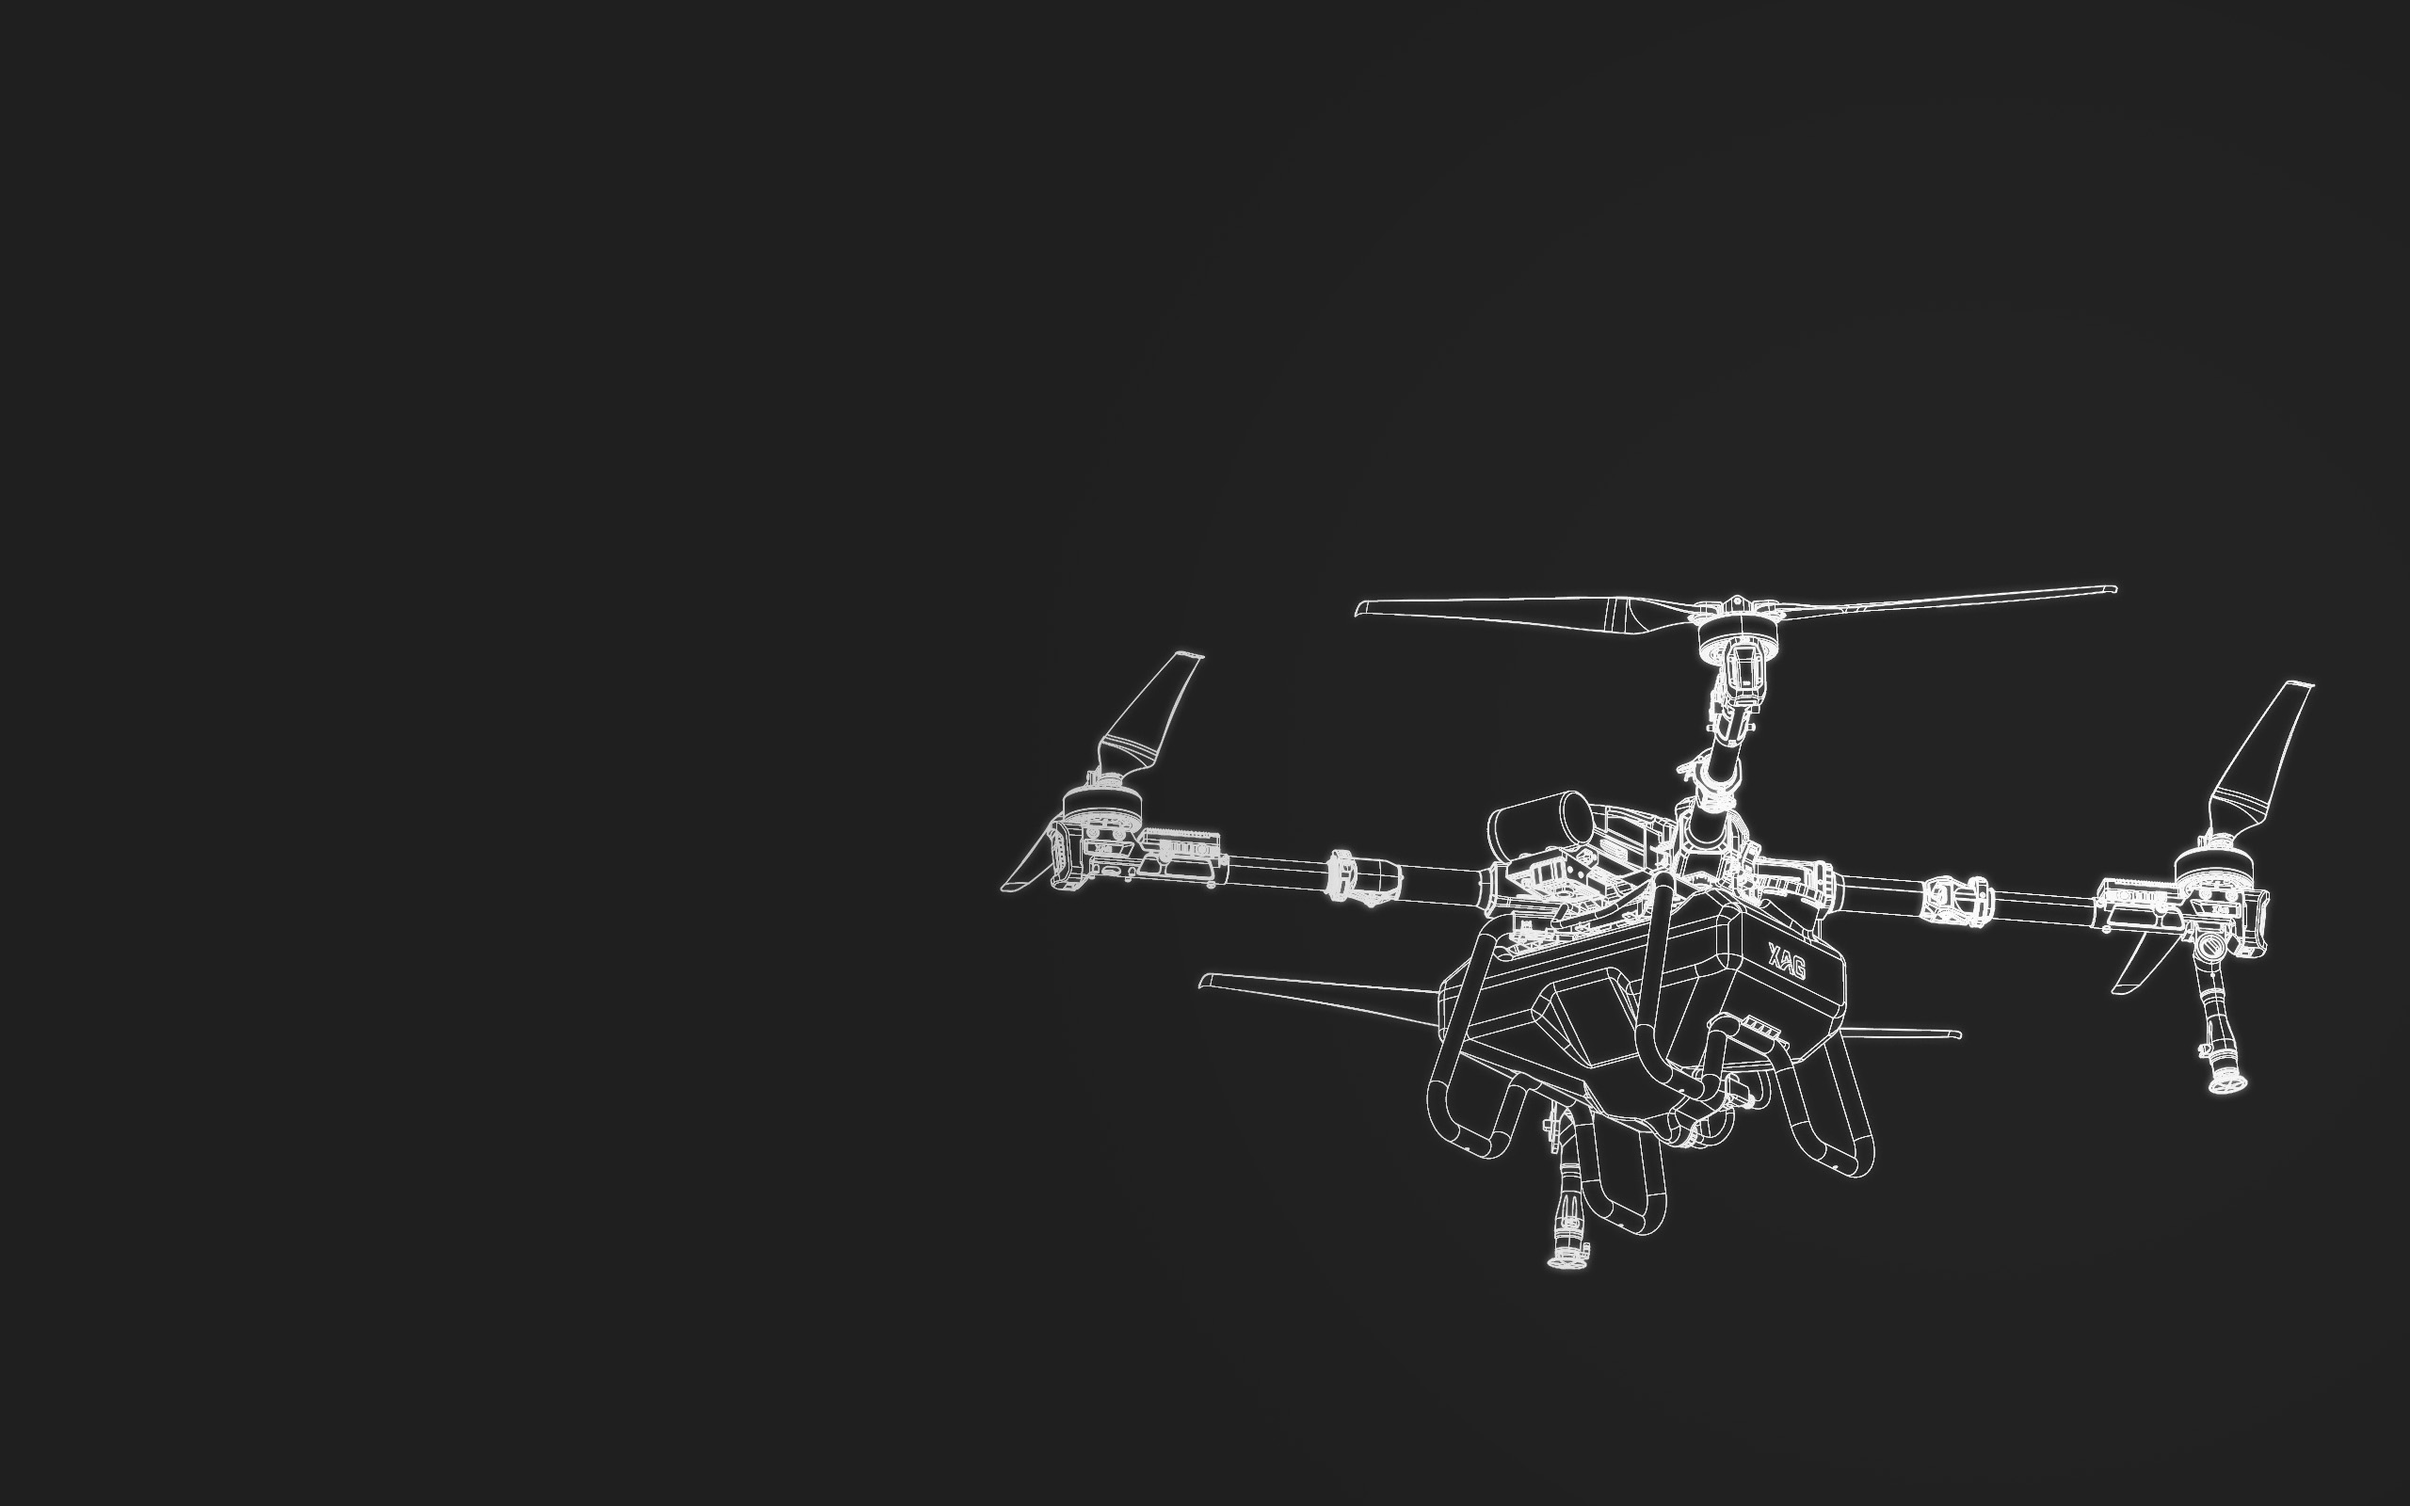
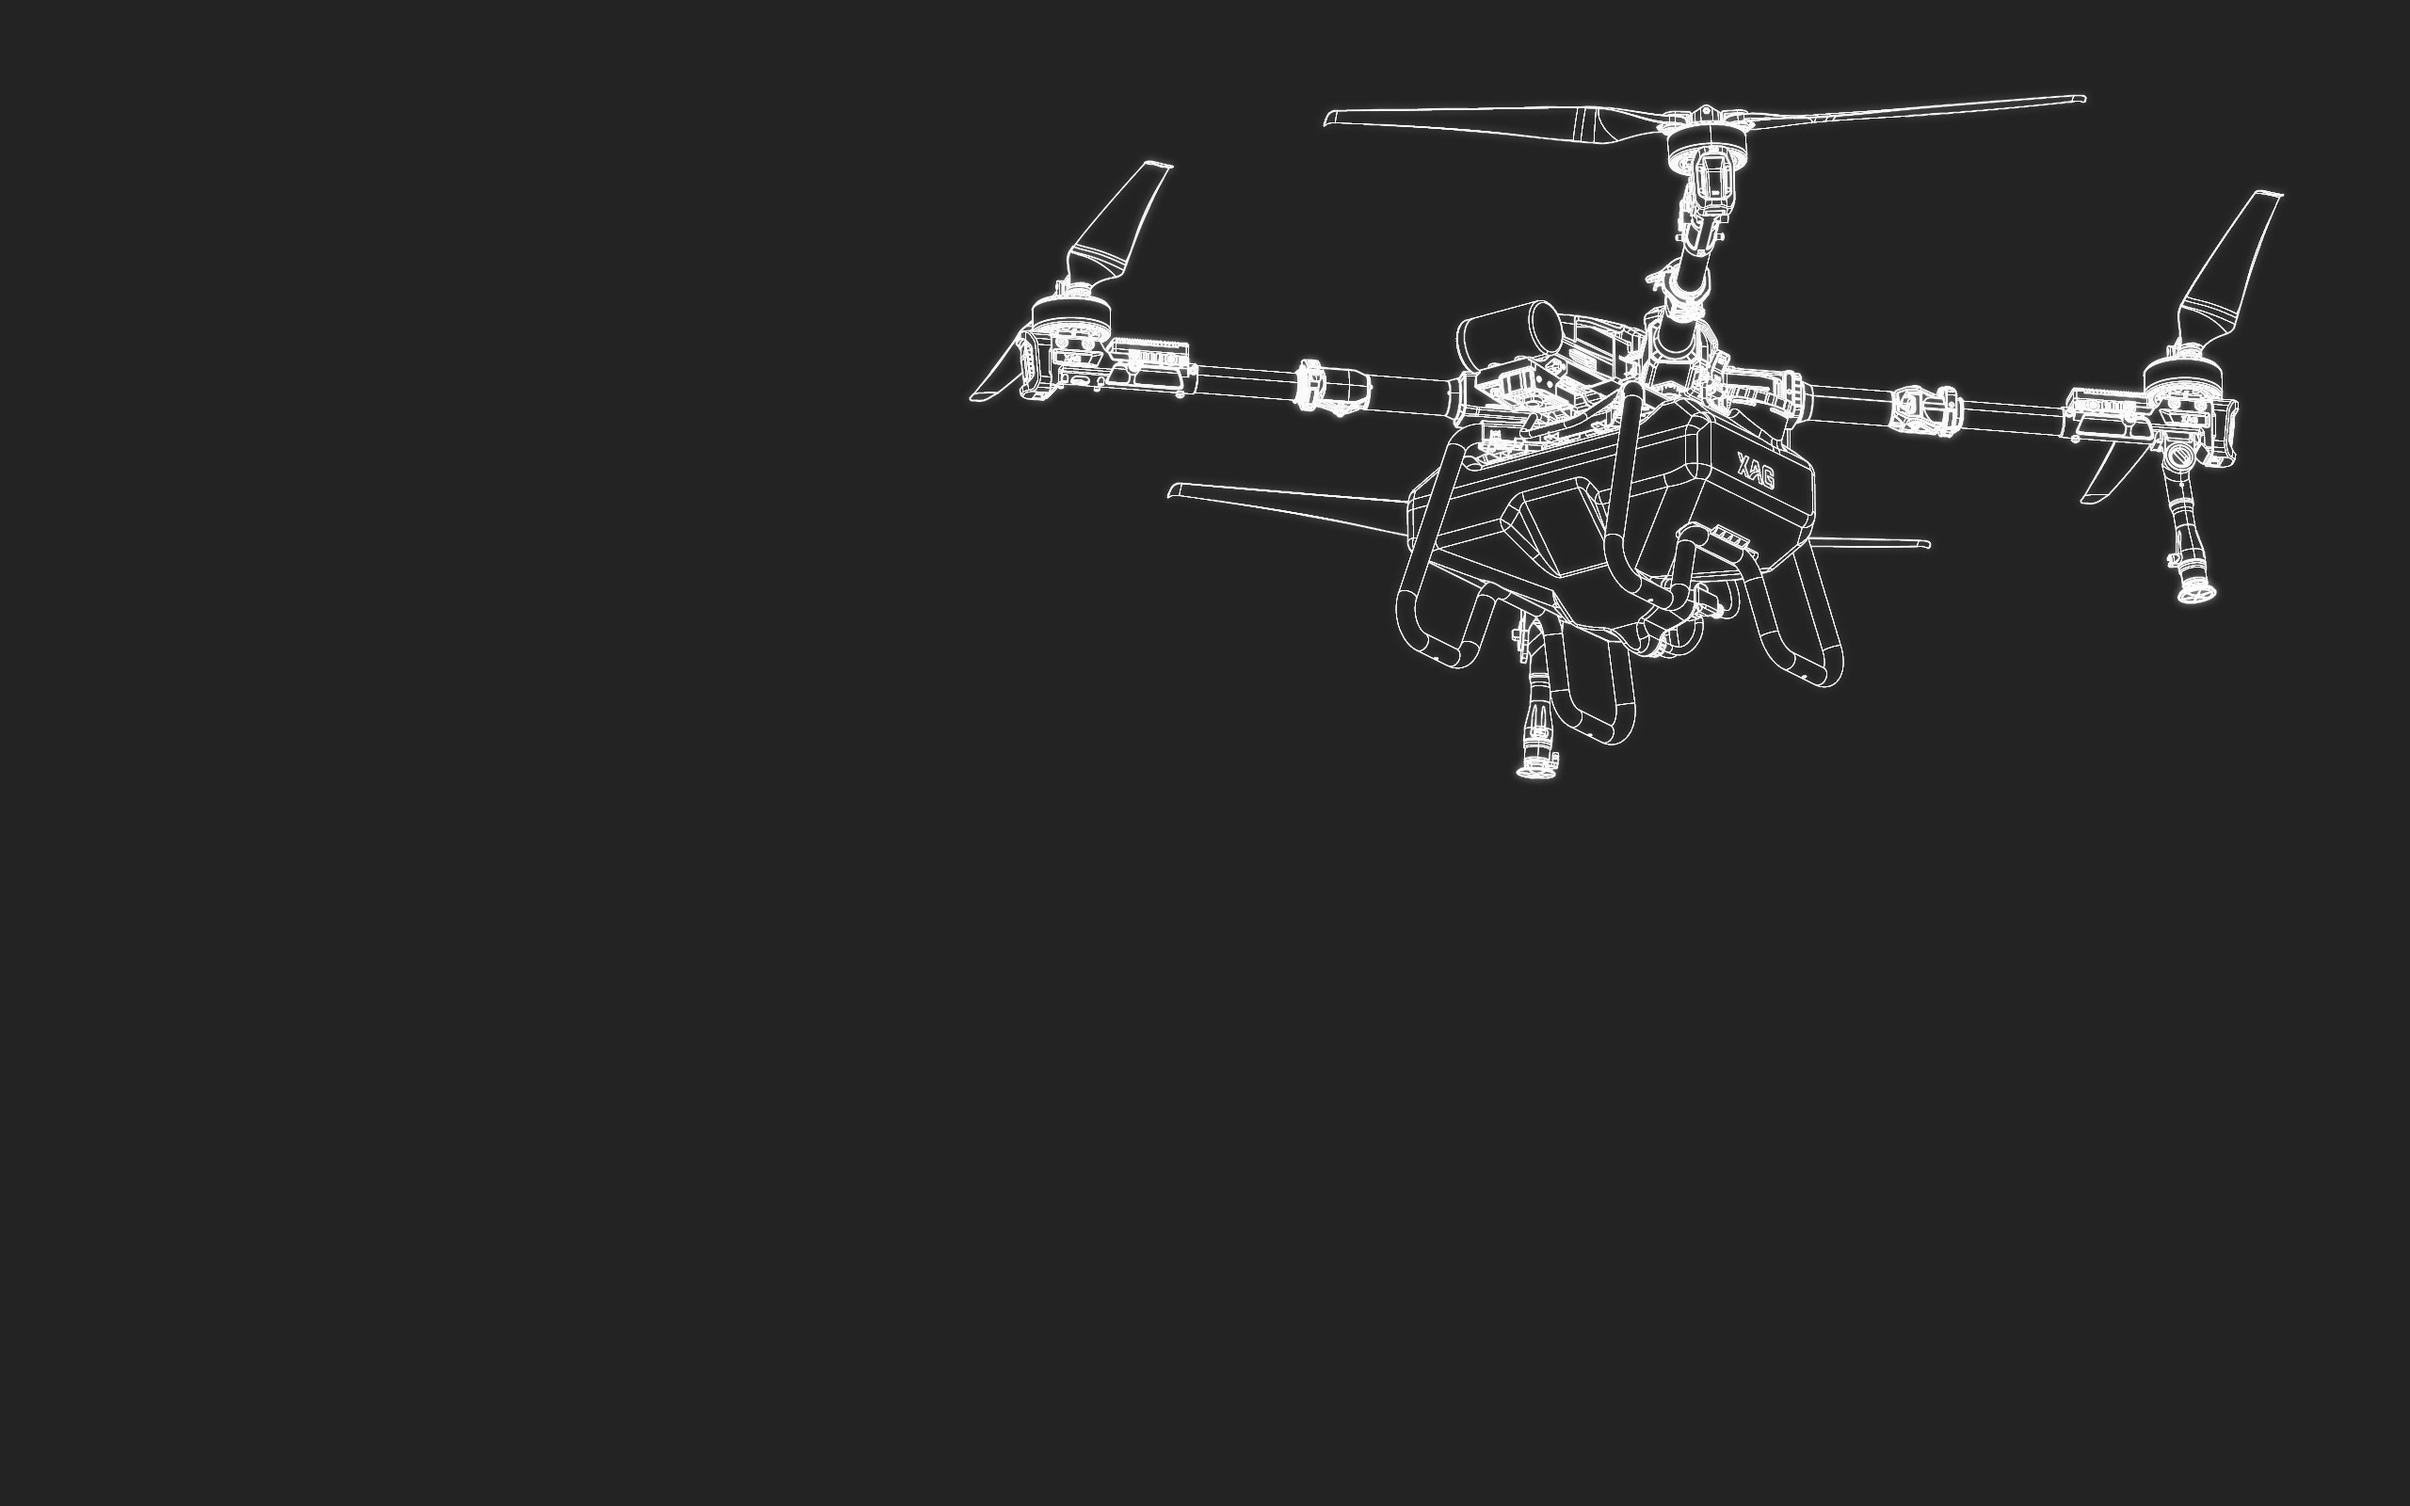
hero

diff --git a/wordpress/wp-content/themes/xag-australia/template-parts/content-hero.php b/wordpress/wp-content/themes/xag-australia/template-parts/content-hero.php
@@ -164,7 +164,7 @@ if($techup_enable_banner_section==true ) { ?>
 
 
 		<div data-slidr="one" style="min-width: 100vw; min-height: calc(50vh + 80px);">
-			<section class="hero-sec" style="background-image: url('http://localhost:8080/wp-content/uploads/2023/07/slide-11A.jpg'); background-attachment: fixed; background-size: contain; background-position: center; width: 1280px; margin-left: auto; margin-right: auto; padding: 0px !important;">
+			<section class="hero-sec" style="background-image: url('http://localhost:8080/wp-content/uploads/2023/07/slide-11B.jpg'); background-attachment: fixed; background-size: contain; background-position: center; width: 1280px; margin-left: auto; margin-right: auto; padding: 0px !important;">
 				<div class="container" style="padding-left: 0px; padding-right: 0px; margin-left: unset; margin-right: unset; width: 30% !important; height: calc(100% - 180px) !important; background: #c01920; border-radius: 0px 0px 400px 0px; max-width: 1280px !important; margin-top: 180px !important;">
 					<div class="row">
 						<div class="content-sec" style="right: 50px;">
